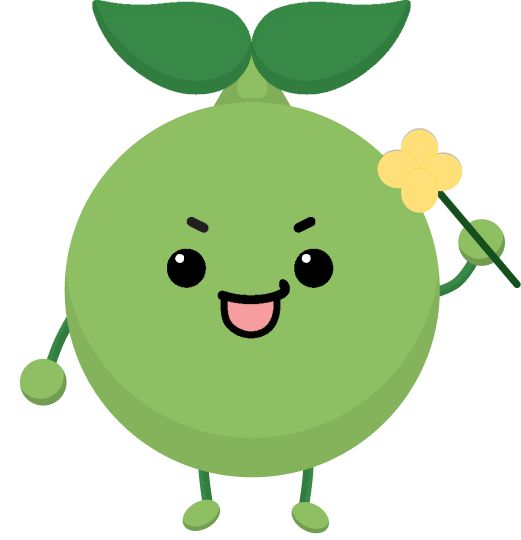
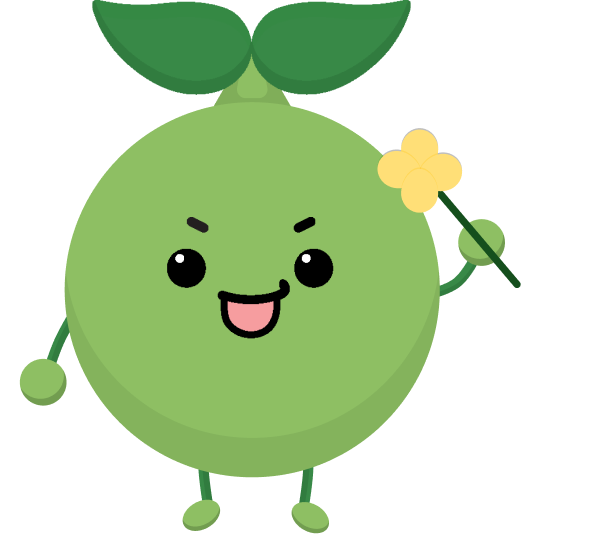
up

Changed region(s): [[0.0307, 0.0, 1.0, 1.0], [0.2764, 0.3852, 0.6449, 0.6519], [0.2764, 0.0, 0.3071, 0.0296]]

diff --git a/style.css b/style.css
@@ -1057,33 +1057,77 @@ margin-top: 60%;
 }
 
 #character {
-    font-style: bold;
+    width: 100%;
+    height: 1200px;
+    font-weight: bold;
     display: flex;
-    flex-direction: column; /* 세로 정렬 */
-    align-items: center; /* 가운데 정렬 */
-    background-color:  #ffffff;
+    flex-direction: column;
+    align-items: center;
+    background-color: #ffffff;
     color: #3E7443;
     width: 100%;
-    margin: 0;
     padding: 50px;
     box-sizing: border-box;
-    text-align: center; /* 텍스트 가운데 정렬 추가 */
+    text-align: center;
 }
-.characterimg{
-            width: 100%; 
-            height: auto; 
-            max-width: 500px; 
-            object-fit: cover; 
-            z-index: 1; /* 이미지의 z-index도 조정 */
-            position: relative; /* z-index 적용을 위해 position 설정 */
-            margin-top: 200px;
-            margin-bottom: 200px;
+
+.characterimg {
+    display: flex;
+    justify-content: center;
+    align-items: center;
+    position: relative;
+    width: 100%;
+    max-width: 500px;
+    height: auto;
+    margin-top: 400px;
+    margin-bottom: 300px;
 }
-#character .circle-shape {
-    width: 400px; /* 원의 너비를 더 크게 */
-    height: 400px; /* 원의 높이를 더 크게 */
-    font-size: 24px; /* 텍스트 크기도 조정 */
+
+.characterimg img {
+    position: absolute;
+    top: 50%; /* 이미지의 중심을 부모의 중심에 맞춤 */
+    left: 50%;
+    transform: translate(-50%, -50%); /* 수평 및 수직 중앙 정렬 */
+    width: 100%;
+    height: auto;
+    opacity: 0;
+    animation-duration: 1.5s; /* 느린 교체 속도 */
+    animation-iteration-count: infinite;
 }
+
+.frame1 {
+    animation-name: frame1Visible;
+}
+
+.frame2 {
+    animation-name: frame2Visible;
+}
+
+@keyframes frame1Visible {
+    0%, 40% { 
+        opacity: 1; /* frame1을 보이게 함 */
+    } 
+    50% { 
+        opacity: 0; /* frame1을 서서히 숨김 */
+    }
+    60%, 100% { 
+        opacity: 0; /* frame1을 완전히 숨김 */
+    }
+}
+
+@keyframes frame2Visible {
+    0%, 40% { 
+        opacity: 0; /* frame2를 숨김 */
+    } 
+    50% { 
+        opacity: 1; /* frame2를 보이게 함 */
+    }
+    60%, 100% { 
+        opacity: 1; /* frame2를 유지 */
+    }
+}
+
+
 
 
         /* 공통 스타일 */

diff --git a/index.html b/index.html
@@ -538,10 +538,14 @@
 
     <section id="character">
         <h2>플마와 함께<p>식물 키우기로 계획 쉽고 재밌게 실천하자!</p></h2>
-     <div class="characterimg">
-            <img src="img/캐릭터 움직임.png">
+        <div class="characterimg">
+            <img src="img/캐릭터 움직임.png" class="frame1">
+            <img src="img/캐릭터 움직임1.png" class="frame2">
         </div>
     </section>
+    
+    
+    
 
     <footer>
         <div class="footer-content">
